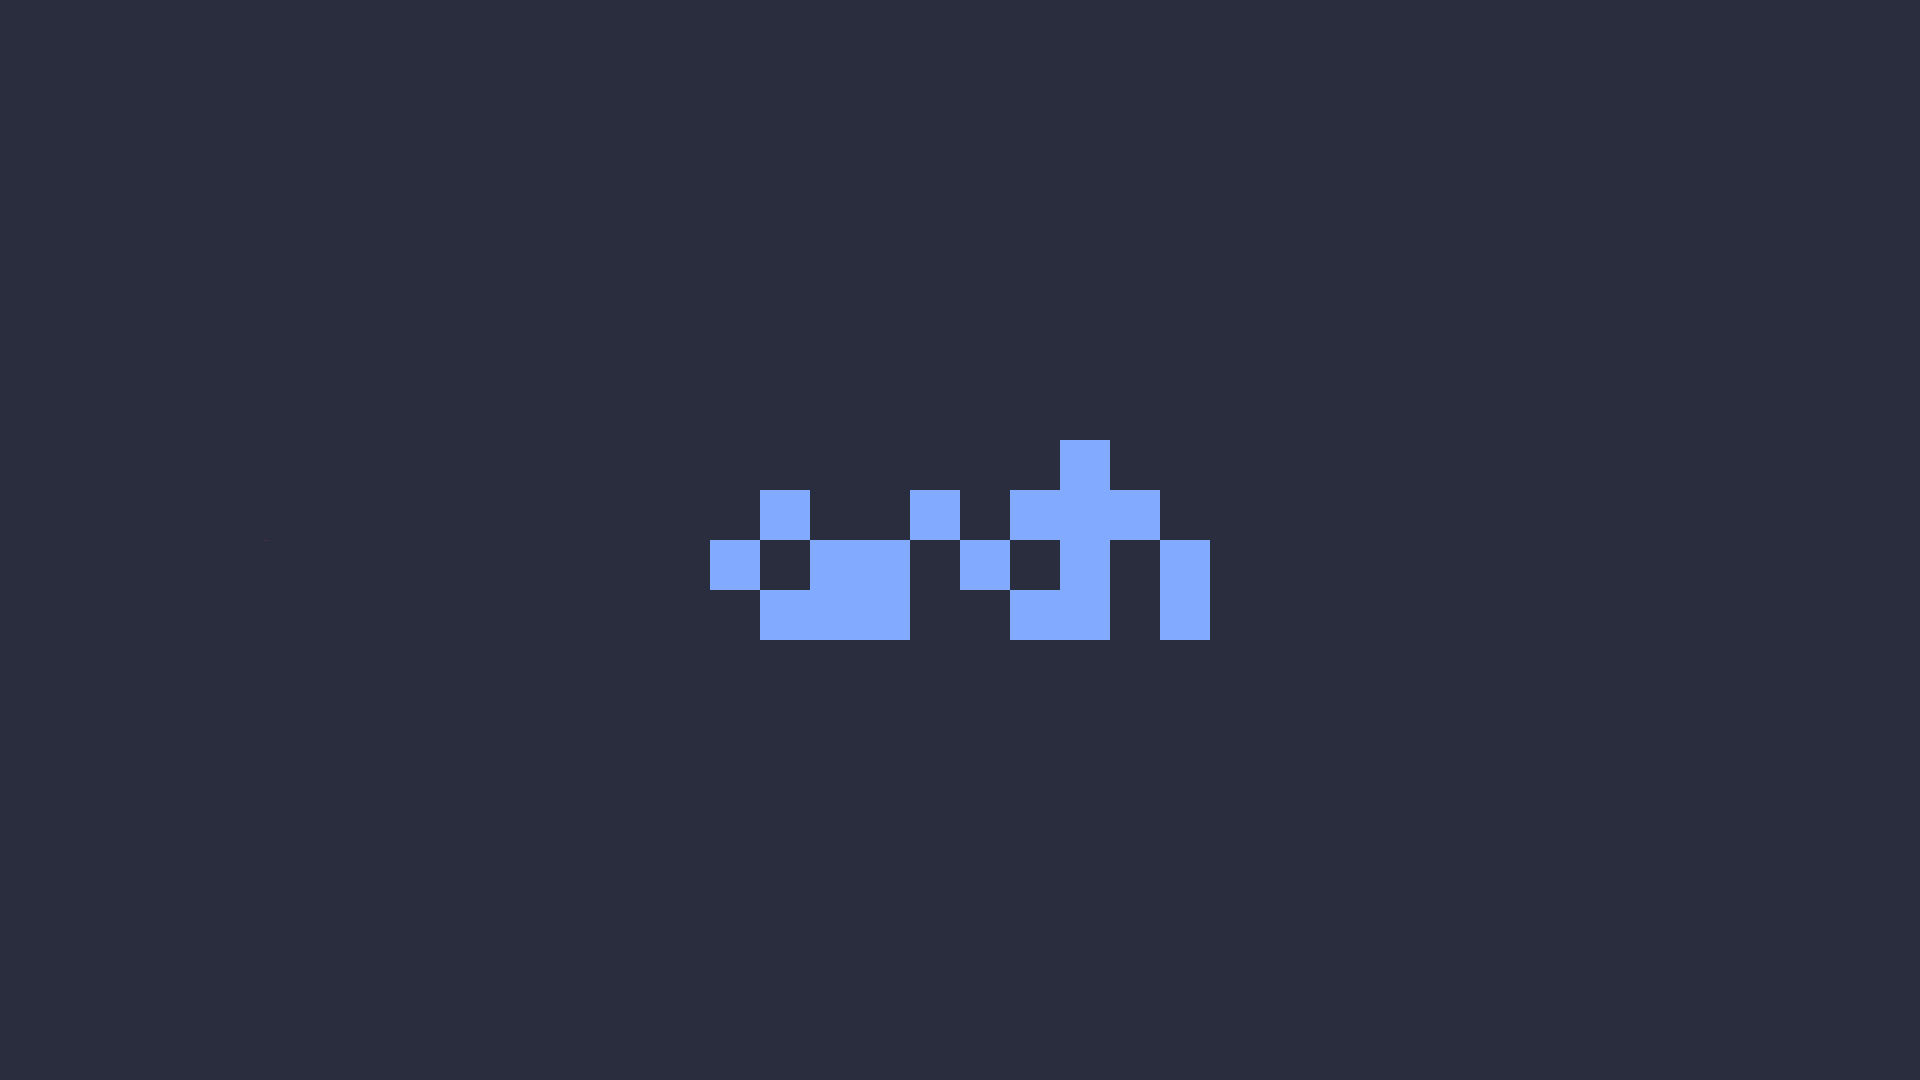
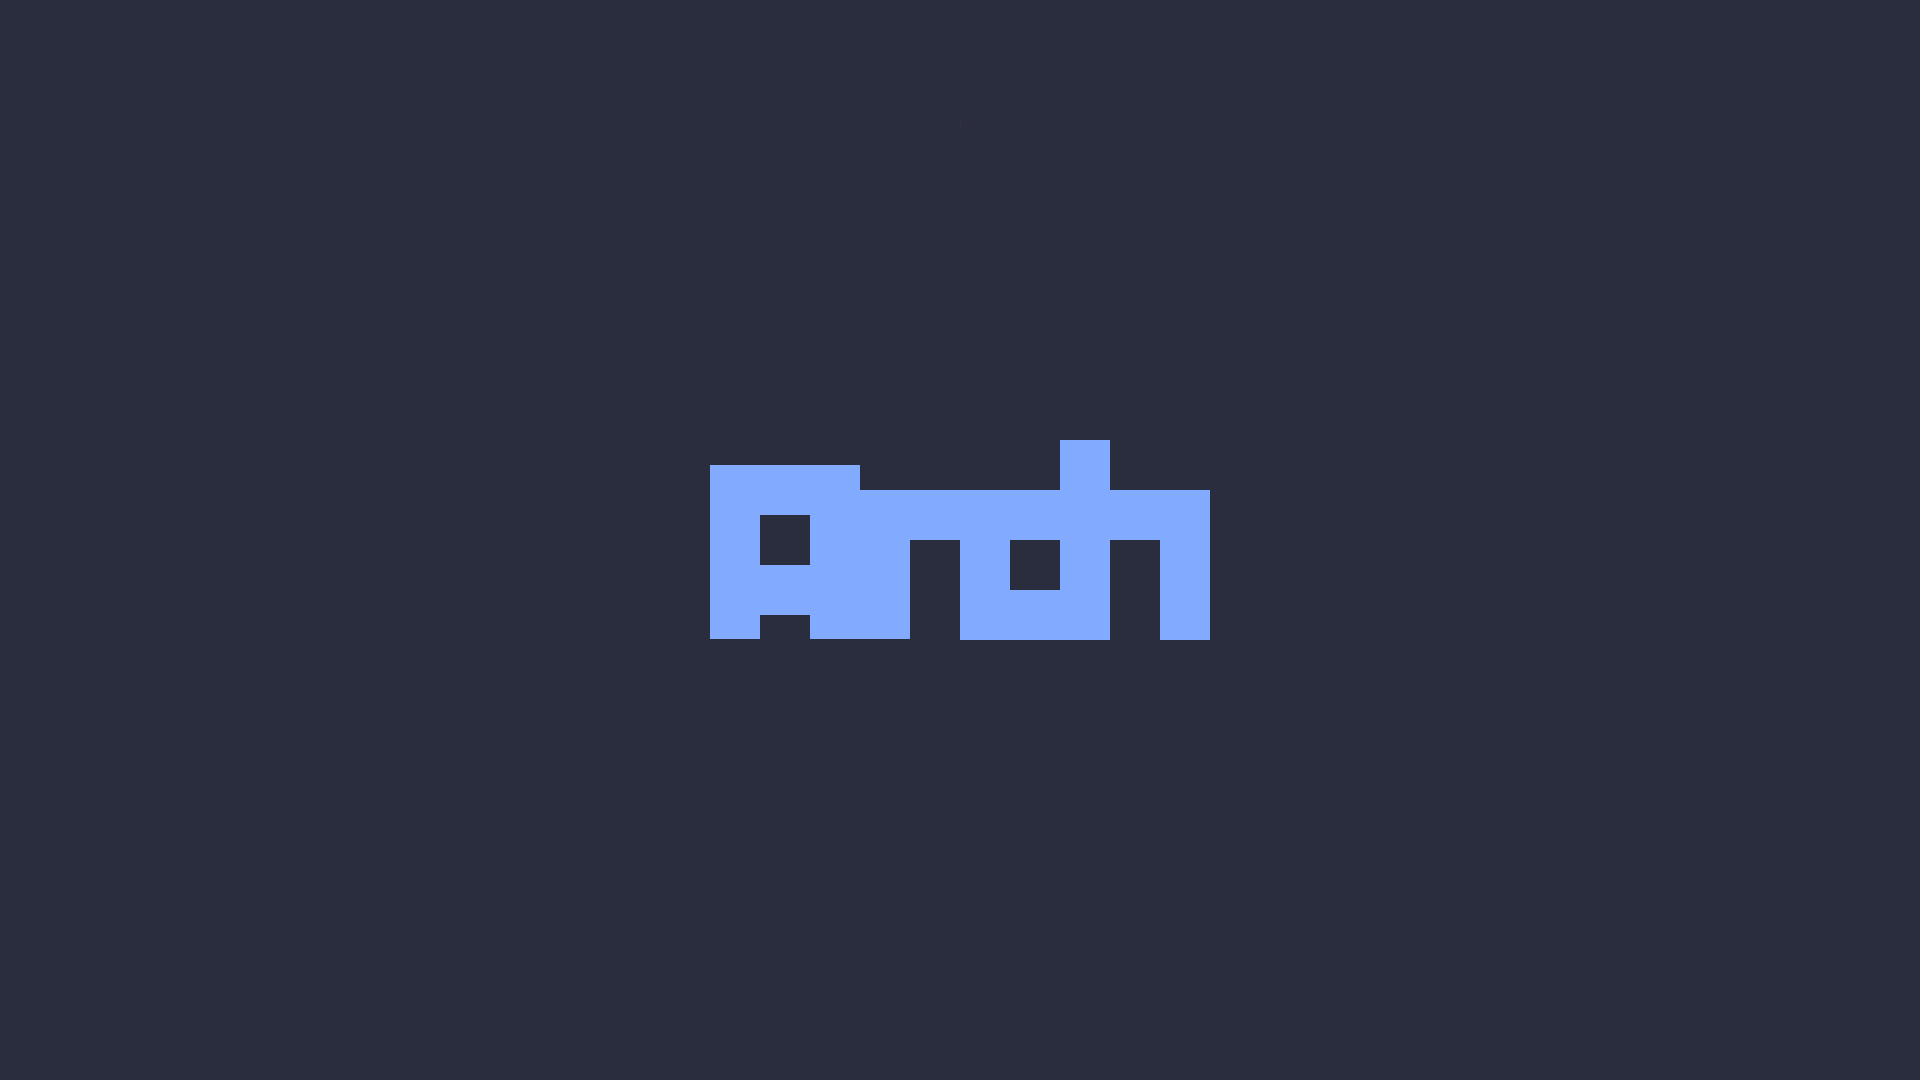
New wallpaper and screenshot

Changed region(s): [[0.3438, 0.4278, 0.5312, 0.6111], [0.5938, 0.4278, 0.6562, 0.5194]]

diff --git a/dwm/config.h b/dwm/config.h
@@ -10,11 +10,6 @@ static const char *fonts[]          = { "Monofur:size=12" };
 static const char dmenufont[]       = "Monofur:size=12";
 
 #include "/home/mark/.dwm/colors.h"
-/* static const char col_gray1[]       = "#2a2e38";
- * static const char col_gray2[]       = "#808080";
- * static const char col_gray3[]       = "#e6e6e6";
- * static const char col_gray4[]       = "#f0fdff";
- * static const char col_theme[]       = "#6f98b3"; */
 static const char *colors[][3]      = {
 	/*               fg         bg         border   */
 	[SchemeNorm] = { col_gray3, col_gray1, col_gray2 },
